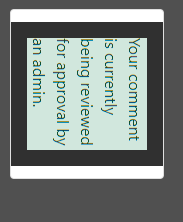
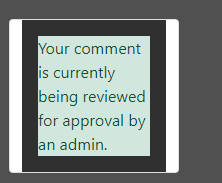
[UPDATE] Alert image added to comments in feature section of Readme

diff --git a/README.md b/README.md
@@ -55,7 +55,11 @@ Users with accounts can comment on posts once an admin has approved the comment.
 
 ![Post's Stories(Comments)](static/images/pp4-post-stories-screenshot2.png)
 
-# Account Registration
+When a user has left a comment they are given an alert to notify them.
+
+![Comment's Alert](static/images/pp4-comment-alert.png)
+
+## Account Registration
 ### Registration Page
 * This application allows the user to create an account to login and access additional features on the app. When registering the webpage will ask for a username (that doesn't already exist), an optional email, a password and the password a second time to confirm it. The webpage will detect the strength of the password entered to make sure it isn't too small or easy to figure out.
 
@@ -71,7 +75,7 @@ Users with accounts can comment on posts once an admin has approved the comment.
 
 ![Logout page](static/images/pp4-logout-page.png)
 
-# Footer
+## Footer
 * The footer is used to add authenticity to the website and to let people know that this is strictly for educational use only.
 ![Footer](static/images/pp4-footer-screenshot.png)
 
